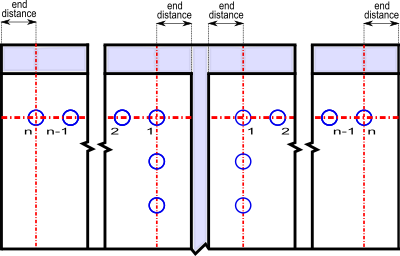
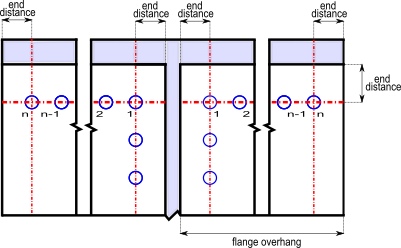
upload ref png images in image folder for all modules and updated ccep and tension's output dock

diff --git a/design_type/tension_member/tension_bolted.py b/design_type/tension_member/tension_bolted.py
@@ -500,15 +500,21 @@ class Tension_bolted(Member):
 
         spacing = []
 
-        t00 = (None, "", TYPE_NOTE, "Representative Image for Spacing Details - 3 x 3 pattern considered")
+        t00 = (None, "", TYPE_NOTE, "Representative Image for Spacing Details - (root radius not included in edge distance)")
         spacing.append(t00)
 
         # t99 = (None, 'Spacing Details', TYPE_SECTION, './ResourceFiles/images/spacing_1.png')
         # spacing.append(t99)
 
         t99 = (None, 'Spacing Details', TYPE_SECTION,
-               ['./ResourceFiles/images/spacing_1.jpg', 400, 278, ""])  # [image, width, height, caption]
+               ['./ResourceFiles/images/spacing_1.png', 400, 278, "3 x 3 pattern considered"])  # [image, width, height, caption]
         spacing.append(t99)
+
+        t16 = (KEY_OUT_BOLTS_ONE_LINE, KEY_OUT_DISP_BOLTS_ONE_LINE, TYPE_TEXTBOX, self.plate.bolts_one_line if status else '',True)
+        spacing.append(t16)
+
+        t15 = (KEY_OUT_BOLT_LINE, KEY_OUT_DISP_BOLT_LINE, TYPE_TEXTBOX, self.plate.bolt_line if status else '', True)
+        spacing.append(t15)
 
         t9 = (KEY_OUT_PITCH, KEY_OUT_DISP_PITCH, TYPE_TEXTBOX, self.plate.pitch_provided if status else '')
         spacing.append(t9)
@@ -522,22 +528,39 @@ class Tension_bolted(Member):
         t12 = (KEY_OUT_EDGE_DIST, KEY_OUT_DISP_EDGE_DIST, TYPE_TEXTBOX, self.plate.edge_dist_provided if status else '')
         spacing.append(t12)
 
-
-
         return spacing
 
     def memb_pattern(self, status):
+
+        if self.sec_profile in ['Angles', 'Back to Back Angles', 'Star Angles']:
+            image = './ResourceFiles/images/L.png'
+            x, y = 400, 202
+
+        else:
+            image = './ResourceFiles/images/U.png'
+            x, y = 400, 202
+
 
         pattern = []
 
         t00 = (None, "", TYPE_NOTE, "Representative image for Failure Pattern - 2 x 3 Bolts pattern considered")
         pattern.append(t00)
 
-        # t99 = (None, 'Spacing Details', TYPE_SECTION, './ResourceFiles/images/spacing_1.png')
-        # spacing.append(t99)
+        t99 = (None, 'Failure Pattern due to Tension in Member', TYPE_IMAGE,
+               [image, x, y, "Member Block Shear Pattern"])  # [image, width, height, caption]
+        pattern.append(t99)
+
+        return pattern
+
+    def plate_pattern(self, status):
+
+        pattern = []
+
+        t00 = (None, "", TYPE_NOTE, "Representative image for Failure Pattern - 2 x 3 Bolts pattern considered")
+        pattern.append(t00)
 
         t99 = (None, 'Failure Pattern due to Tension in Plate', TYPE_IMAGE,
-               ['./ResourceFiles/images/L.jpg', 400, 202, "Block Shear Pattern"])  # [image, width, height, caption]
+               ['./ResourceFiles/images/L.png',400,202, "Plate Block Shear Pattern"])  # [image, width, height, caption]
         pattern.append(t99)
 
         return pattern
@@ -548,6 +571,7 @@ class Tension_bolted(Member):
         '''
 
         # @author: Umair
+        # print(round(self.plate.beta_lj, 2),"hcbvhg")
 
         out_list = []
 
@@ -569,7 +593,7 @@ class Tension_bolted(Member):
               round((self.section_size_1.block_shear_capacity_axial/1000),2) if flag else '', True)
         out_list.append(t5)
 
-        t17 = (KEY_OUT_PATTERN, KEY_OUT_DISP_PATTERN, TYPE_OUT_BUTTON, ['Shear Pattern ', self.memb_pattern], True)
+        t17 = (KEY_OUT_PATTERN_1, KEY_OUT_DISP_PATTERN, TYPE_OUT_BUTTON, ['Shear Pattern ', self.memb_pattern], True)
         out_list.append(t17)
 
         t6 = (KEY_TENSION_CAPACITY, KEY_DISP_TENSION_CAPACITY, TYPE_TEXTBOX,
@@ -611,17 +635,16 @@ class Tension_bolted(Member):
         t5 = (KEY_OUT_BOLT_BEARING, KEY_OUT_DISP_BOLT_BEARING, TYPE_TEXTBOX,  bolt_bearing_capacity_disp if flag else '', True)
         out_list.append(t5)
 
-        t13 = (KEY_OUT_BOLT_CAPACITY, KEY_OUT_DISP_BOLT_CAPACITY, TYPE_TEXTBOX, round(self.bolt.bolt_capacity/1000,2) if flag else '', True)
+        t5 = (KEY_REDUCTION_FACTOR_FLANGE, KEY_DISP_REDUCTION_FACTOR_FLANGE, TYPE_TEXTBOX, round(self.plate.beta_lj, 2) if flag else '', True)
+        out_list.append(t5)
+
+        t13 = (KEY_OUT_BOLT_CAPACITY, KEY_OUT_DISP_BOLT_CAPACITY, TYPE_TEXTBOX, round(self.plate.bolt_capacity_red/1000,2) if flag else '', True)
         out_list.append(t13)
 
         t14 = (KEY_OUT_BOLT_FORCE, KEY_OUT_DISP_BOLT_FORCE, TYPE_TEXTBOX, round(self.plate.bolt_force / 1000, 2) if flag else '', True)
         out_list.append(t14)
 
-        t15 = (KEY_OUT_BOLT_LINE, KEY_OUT_DISP_BOLT_LINE, TYPE_TEXTBOX, self.plate.bolt_line if flag else '', True)
-        out_list.append(t15)
 
-        t16 = (KEY_OUT_BOLTS_ONE_LINE, KEY_OUT_DISP_BOLTS_ONE_LINE, TYPE_TEXTBOX, self.plate.bolts_one_line if flag else '', True)
-        out_list.append(t16)
 
         t17 = (KEY_OUT_SPACING, KEY_OUT_DISP_SPACING, TYPE_OUT_BUTTON, ['Spacing Details', self.spacing], True)
         out_list.append(t17)
@@ -649,6 +672,9 @@ class Tension_bolted(Member):
         t21 = (KEY_OUT_PLATE_BLK_SHEAR, KEY_DISP_TENSION_BLOCKSHEARCAPACITY, TYPE_TEXTBOX,
                (round(self.plate.block_shear_capacity/ 1000, 2)) if flag else '', True)
         out_list.append(t21)
+
+        t17 = (KEY_OUT_PATTERN_2, KEY_OUT_DISP_PATTERN, TYPE_OUT_BUTTON, ['Shear Pattern ', self.plate_pattern], True)
+        out_list.append(t17)
 
         t21 = (KEY_OUT_PLATE_CAPACITY, KEY_DISP_TENSION_CAPACITY, TYPE_TEXTBOX,
                (round(self.plate_tension_capacity/1000, 2)) if flag else '', True)
@@ -1796,6 +1822,7 @@ class Tension_bolted(Member):
 
 
     def intermittent_bolt(self, design_dictionary):
+        # print(round(self.plate.beta_lj, 2), "hcbvhg")
         print(self.bolt.max_edge_dist,"ghxvjhshd")
         self.inter_length = self.length - 2 * (self.plate.end_dist_provided + (self.plate.bolt_line -1)*self.plate.pitch_provided)
         if design_dictionary[KEY_SEC_PROFILE] in ['Back to Back Angles', 'Star Angles']:

diff --git a/design_type/connection/column_end_plate.py b/design_type/connection/column_end_plate.py
@@ -353,14 +353,14 @@ class ColumnEndPlate(MomentConnection):
     def web_bolt_spacing(self, flag):
         web_bolt_spacing = []
 
-        t00 = (None, "", TYPE_NOTE, "Representative Image for Web Bolt Spacing Details")
+        t00 = (None, "", TYPE_NOTE, "Representative Image for Web Bolt Spacing Details (4 bolts common in flange)")
         web_bolt_spacing.append(t00)
 
         # t99 = (None, 'Spacing Details', TYPE_SECTION, './ResourceFiles/images/spacing_1.png')
         # spacing.append(t99)
 
         t99 = (None, 'Spacing Details', TYPE_SECTION,
-               ['./ResourceFiles/images/spacing_4.png', 400, 367, "Web Bolt Spacing for (n) Bolts"])  # [image, width, height, caption]
+               ['./ResourceFiles/images/spacing_4.png', 400, 411, "Web Bolt Spacing for (n) Bolts"])  # [image, width, height, caption]
         web_bolt_spacing.append(t99)
         # t2 = (KEY_OUT_PITCH, KEY_OUT_DISP_PITCH, TYPE_TEXTBOX, self.pitch if flag else '', True)
         # web_bolt_spacing.append(t2)
@@ -386,6 +386,8 @@ class ColumnEndPlate(MomentConnection):
         web_bolt_spacing.append(t3)
         t4 = (KEY_OUT_NO_BOLTS_WEB, KEY_OUT_DISP_NO_BOLTS_WEB, TYPE_TEXTBOX, self.n_bw if flag else '', True)
         web_bolt_spacing.append(t4)
+        t4 = (KEY_OUT_NO_BOLTS_WEB_TOTAL, KEY_OUT_DISP_NO_BOLTS_WEB_TOTAL, TYPE_TEXTBOX, self.n_bw * 2 if flag else '', True)
+        web_bolt_spacing.append(t4)
         # t5 = (KEY_PITCH_2_WEB1, KEY_DISP_PITCH_2_WEB1, TYPE_TEXTBOX, round(self.p_2_web,2) if flag else '', True)
         # web_bolt_spacing.append(t5)
 
@@ -396,11 +398,11 @@ class ColumnEndPlate(MomentConnection):
 
         if self.connection == 'Flush End Plate':
             image = './ResourceFiles/images/spacing_5.png'
-            x,y = 400,256
+            x,y = 401,248
             bolts = int(self.n_bf_output/4)
         else:
             image = './ResourceFiles/images/spacing_6.png'
-            x, y = 400, 343
+            x, y = 401, 321
             bolts = int(self.n_bf_output / 8)
 
         t00 = (None, "", TYPE_NOTE, "Representative Image for Flange Bolt Spacing Details")
@@ -436,6 +438,8 @@ class ColumnEndPlate(MomentConnection):
         t3 = (KEY_OUT_END_DIST, KEY_OUT_DISP_END_DIST, TYPE_TEXTBOX, self.end_dist if flag else '', True)
         flange_bolt_spacing.append(t3)
         t4 = (KEY_OUT_NO_BOLTS_FLANGE, KEY_OUT_DISP_NO_BOLTS_FLANGE, TYPE_TEXTBOX, bolts if flag else '', True)
+        flange_bolt_spacing.append(t4)
+        t4 = (KEY_OUT_NO_BOLTS_FLANGE_TOTAL, KEY_OUT_DISP_NO_BOLTS_FLANGE_TOTAL, TYPE_TEXTBOX, self.n_bf_output if flag else '', True)
         flange_bolt_spacing.append(t4)
         t5 = (KEY_PITCH_2_FLANGE1, KEY_DISP_PITCH_2_FLANGE1, TYPE_TEXTBOX, round(self.p_2_flange,2) if flag else '', True)
         flange_bolt_spacing.append(t5)

diff --git a/Common.py b/Common.py
@@ -1130,7 +1130,8 @@ KEY_INNERFLANGE_DISP_WELD_STRENGTH = 'Flange Weld Strength (N/mm)'
 
 
 KEY_REDUCTION_FACTOR_FLANGE ='flange_plate.red,factor'
-KEY_DISP_REDUCTION_FACTOR_FLANGE ="Red.factor"
+KEY_DISP_REDUCTION_FACTOR_FLANGE ="Capacity Red.Factor"
+KEY_DISP_REDUCTION ="Strength Red.Factor"
 KEY_OUT_FLANGE_BOLT_SHEAR ='flange_bolt.bolt_shear_capacity'
 KEY_OUT_DISP_FLANGE_BOLT_SHEAR = "Shear Capacity (kN)"
 KEY_OUT_FLANGE_BOLT_BEARING = 'flange_bolt.bolt_bearing_capacity'
@@ -1338,7 +1339,7 @@ KEY_OUT_BOLTS_REQUIRED = 'Bolt.Required'
 KEY_OUT_LONG_JOINT = 'Bolt Capacity post Long Joint (kN)'
 KEY_OUT_BOLT_GRP_CAPACITY = 'Bolt.GroupCapacity'
 KEY_OUT_BOLT_LINE = 'Bolt.Line'
-KEY_OUT_DISP_BOLT_LINE = 'Bolt Lines (nos)'
+KEY_OUT_DISP_BOLT_LINE = 'Columns (nos)'
 KEY_OUT_INTER_BOLT_LINE = 'Bolt.InterLine'
 KEY_OUT_DISP_INTER_BOLT_LINE = 'Bolt Lines (nos)'
 KEY_OUT_BOLT_IR = 'Bolt.IR'
@@ -1346,7 +1347,7 @@ KEY_OUT_DISP_BOLT_IR = 'Interaction Ratio'
 
 
 KEY_OUT_BOLTS_ONE_LINE = 'Bolt.OneLine'
-KEY_OUT_DISP_BOLTS_ONE_LINE = 'Bolts in Lines (nos)'
+KEY_OUT_DISP_BOLTS_ONE_LINE = 'Rows (nos)'
 KEY_OUT_INTER_BOLTS_ONE_LINE = 'Bolt.InterOneLine'
 KEY_OUT_DISP_INTER_BOLTS_ONE_LINE = 'Bolts in Lines (nos)'
 
@@ -1356,11 +1357,13 @@ KEY_OUT_DISP_SPACING = 'Spacing'
 KEY_OUT_DISP_PATTERN = 'Pattern'
 KEY_OUT_PITCH = 'Bolt.Pitch'
 KEY_OUT_DISP_PITCH = 'Pitch (mm)'
-KEY_OUT_PATTERN = 'pattern'
+KEY_OUT_PATTERN_1 = 'pattern1'
+KEY_OUT_PATTERN_2 = 'pattern2'
 
-
-
-
+KEY_OUT_Lw = 'Weld.Lw'
+KEY_OUT_DISP_Lw = 'Lw (mm)'
+KEY_OUT_Hw = 'Weld.Hw'
+KEY_OUT_DISP_Hw = 'Hw (mm)'
 
 
 KEY_OUT_END_DIST = 'Bolt.EndDist'
@@ -1518,9 +1521,15 @@ KEY_OUT_DISP_MEMB_BLK_SHEAR = 'Block Shear Capacity'
 
 
 KEY_OUT_NO_BOLTS_FLANGE = 'ColumnEndPlate.nbf'
+KEY_OUT_NO_BOLTS_FLANGE_TOTAL = 'ColumnEndPlate.nbftotal'
 KEY_OUT_DISP_NO_BOLTS_FLANGE = 'No. of bolts along One Side of Flange Overhang (n)'
+KEY_OUT_DISP_NO_BOLTS_FLANGE_TOTAL = 'No. of bolts along Flange'
 KEY_OUT_NO_BOLTS_WEB = 'ColumnEndPlate.nbw'
+KEY_OUT_NO_BOLTS_WEB_TOTAL = 'ColumnEndPlate.nbwtotal'
+
 KEY_OUT_DISP_NO_BOLTS_WEB = 'No. of bolts along One Side of Web (n)'
+KEY_OUT_DISP_NO_BOLTS_WEB_TOTAL = 'No. of bolts along Web'
+
 KEY_OUT_NO_BOLTS = 'ColumnEndPlate.nb'
 KEY_OUT_DISP_NO_BOLTS = 'Total no. of Bolts'
 KEY_PITCH_2_FLANGE = 'ColumnEndPlate.p2_flange'
@@ -1573,7 +1582,8 @@ KEY_OUT_WELD_LENGTH = 'Weld.Length'
 KEY_OUT_DISP_WELD_LENGTH = 'Length (mm)'
 KEY_OUT_WELD_LENGTH_EFF = 'Weld.EffLength'
 KEY_OUT_DISP_WELD_LENGTH_EFF = 'Eff.Length (mm)'
-
+KEY_OUT_WELD_STRENGTH_RED = 'Weld.Strength_red'
+KEY_OUT_DISP_WELD_STRENGTH_RED = 'Red.Strength (N/mm)'
 
 DISP_OUT_TITLE_SPTDLEG = "Supported Leg"
 DISP_OUT_TITLE_SPTINGLEG = "Supporting Leg"

diff --git a/design_type/tension_member/tension_welded.py b/design_type/tension_member/tension_welded.py
@@ -492,6 +492,13 @@ class Tension_welded(Member):
         t10 = (KEY_OUT_WELD_STRENGTH, KEY_OUT_DISP_WELD_STRENGTH, TYPE_TEXTBOX, round(self.weld.strength,2) if flag else '', True)
         out_list.append(t10)
 
+        t5 = (KEY_REDUCTION_FACTOR_FLANGE, KEY_DISP_REDUCTION, TYPE_TEXTBOX,round(self.weld.beta_lw, 2) if flag else '', True)
+        out_list.append(t5)
+
+        t10 = (KEY_OUT_WELD_STRENGTH_RED, KEY_OUT_DISP_WELD_STRENGTH_RED, TYPE_TEXTBOX, round(self.weld.strength_red, 2) if flag else '',
+        True)
+        out_list.append(t10)
+
         t11 = (KEY_OUT_WELD_STRESS, KEY_OUT_DISP_WELD_STRESS, TYPE_TEXTBOX, round(self.weld.stress,2) if flag else '', True)
         out_list.append(t11)
 
@@ -534,6 +541,9 @@ class Tension_welded(Member):
                (round(self.plate.block_shear_capacity / 1000, 2)) if flag else '', True)
         out_list.append(t21)
 
+        t17 = (KEY_OUT_PATTERN_2, KEY_OUT_DISP_PATTERN, TYPE_OUT_BUTTON, ['Shear Pattern ', self.plate_pattern], True)
+        out_list.append(t17)
+
         t21 = (KEY_OUT_PLATE_CAPACITY, KEY_DISP_TENSION_CAPACITY, TYPE_TEXTBOX,
                (round(self.plate_tension_capacity / 1000, 2)) if flag else '', True)
 
@@ -571,6 +581,25 @@ class Tension_welded(Member):
         out_list.append(t21)
 
         return out_list
+
+    def plate_pattern(self, status):
+
+        pattern = []
+
+        t00 = (None, "", TYPE_NOTE, "Representative image for Failure Pattern ")
+        pattern.append(t00)
+
+        t99 = (None, 'Failure Pattern due to Tension in Plate', TYPE_SECTION,
+               ['./ResourceFiles/images/Lw.png', 400, 202, "Plate Block Shear Pattern"])  # [image, width, height, caption]
+        pattern.append(t99)
+
+        t9 = (KEY_OUT_Lw, KEY_OUT_DISP_Lw, TYPE_TEXTBOX, round(int(self.plate.length-max((2 * self.weld.size),15)),2) if status else '')
+        pattern.append(t9)
+
+        t10 = (KEY_OUT_Hw, KEY_OUT_DISP_Hw, TYPE_TEXTBOX, round(int(self.plate.height-max((2 * self.weld.size),15)),2) if status else '')
+        pattern.append(t10)
+
+        return pattern
 
     def func_for_validation(self, design_dictionary):
 

diff --git a/utils/common/component.py b/utils/common/component.py
@@ -295,6 +295,8 @@ class Weld:
         self.fu = float(material_g_o)
         self.throat_tk = 0.0
         self.reason = 0.0
+        self.beta_lw = 1.0
+
 
     def __repr__(self):
         repr = "Weld\n"
@@ -477,7 +479,7 @@ class Plate(Material):
         self.tmv = 0.0
         self.vres = 0.0
         self.spacing_status = 0.0
-        self.beta_lj =0.0
+        self.beta_lj = 1.0
 
         # self.moment_demand_disp = round(self.moment_demand/1000000, 2)
         # self.block_shear_capacity_disp = round(self.block_shear_capacity/1000, 2)
@@ -686,15 +688,15 @@ class Plate(Material):
         if end_dist == 0.0 and gap == 0.0:
             self.length_avail = max(((bolts_one_line - 1) * gauge), ((bolts_line - 1) * pitch))
             if self.length_avail > 15 * bolt_dia:
-                beta_lj = 1.075 - self.length_avail / (200 * bolt_dia)
+                self.beta_lj = 1.075 - self.length_avail / (200 * bolt_dia)
                 print('long joint case')
-                if beta_lj > 1:
-                    beta_lj = 1
-                elif beta_lj < 0.75:
-                    beta_lj = 0.75
+                if self.beta_lj > 1:
+                    self.beta_lj = 1
+                elif self.beta_lj < 0.75:
+                    self.beta_lj = 0.75
                 else:
-                    beta_lj = beta_lj
-                bolt_capacity_red = round(beta_lj, 3) * bolt_capacity
+                    self.beta_lj = self.beta_lj
+                bolt_capacity_red = round(self.beta_lj, 2) * bolt_capacity
             else:
                 bolt_capacity_red = bolt_capacity
         else:

diff --git a/gui/ui_template.py b/gui/ui_template.py
@@ -2195,6 +2195,7 @@ class Window(QMainWindow):
                         im.setScaledContents(True)
                         im.setFixedSize(value[1], value[2])
                         pmap = QPixmap(value[0])
+                        im.setStyleSheet("background-color: white;")
                         im.setPixmap(pmap)
 # >>>>>>> 69a22ea10dd18e2df58abc6503be8d6354eaa30a
                         image_layout.addWidget(im)

diff --git a/Report_functions.py b/Report_functions.py
@@ -2961,7 +2961,7 @@ def long_joint_bolted_prov(nc,nr,p,g,d,Tc,Tr,direction=None):
         B =1
     else:
         B=B
-    B = str(round(B,3))
+    B = str(round(B,2))
     Bi = str(Bi)
     lc_str = str(lc)
     lr_str = str(lr)
